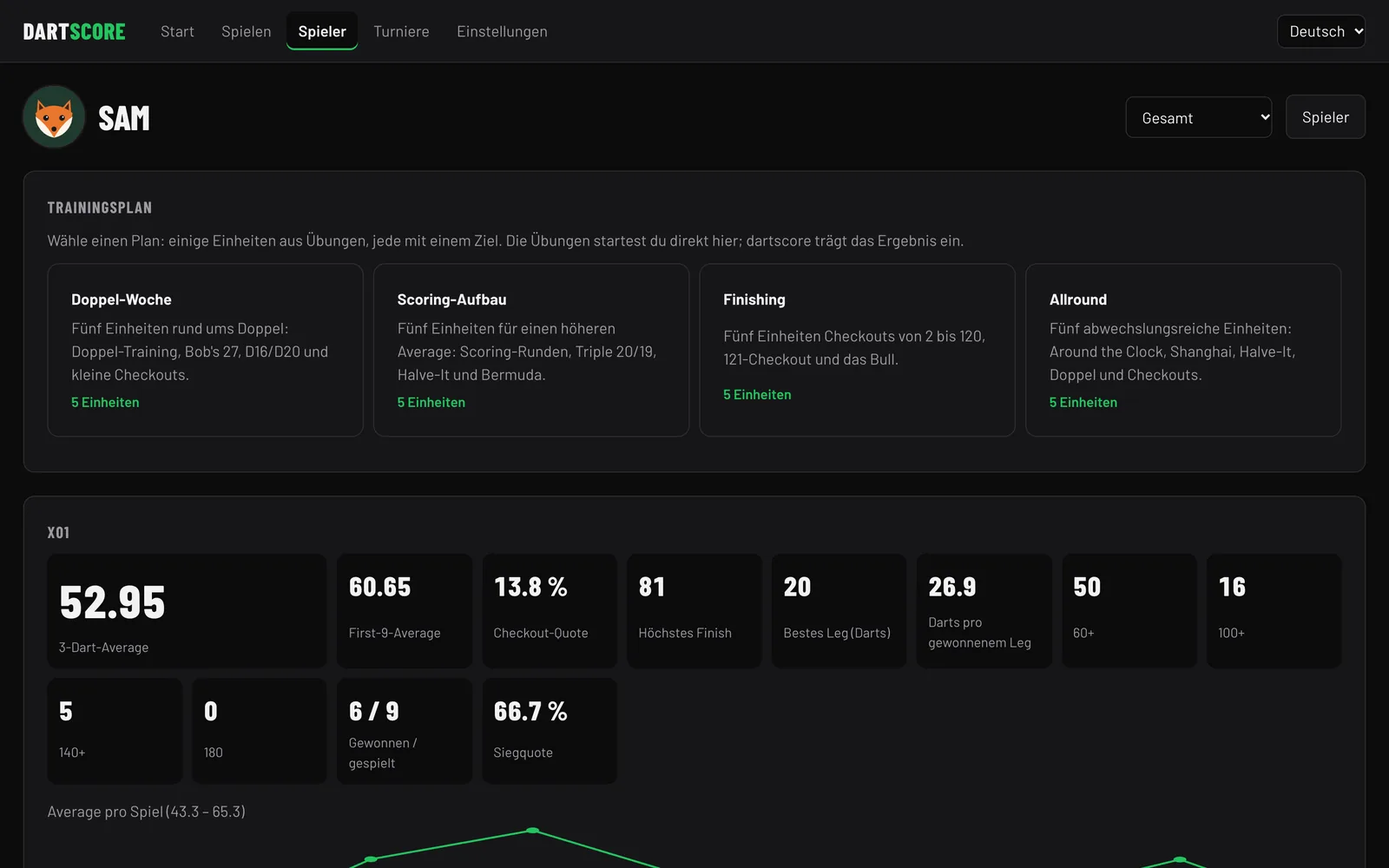
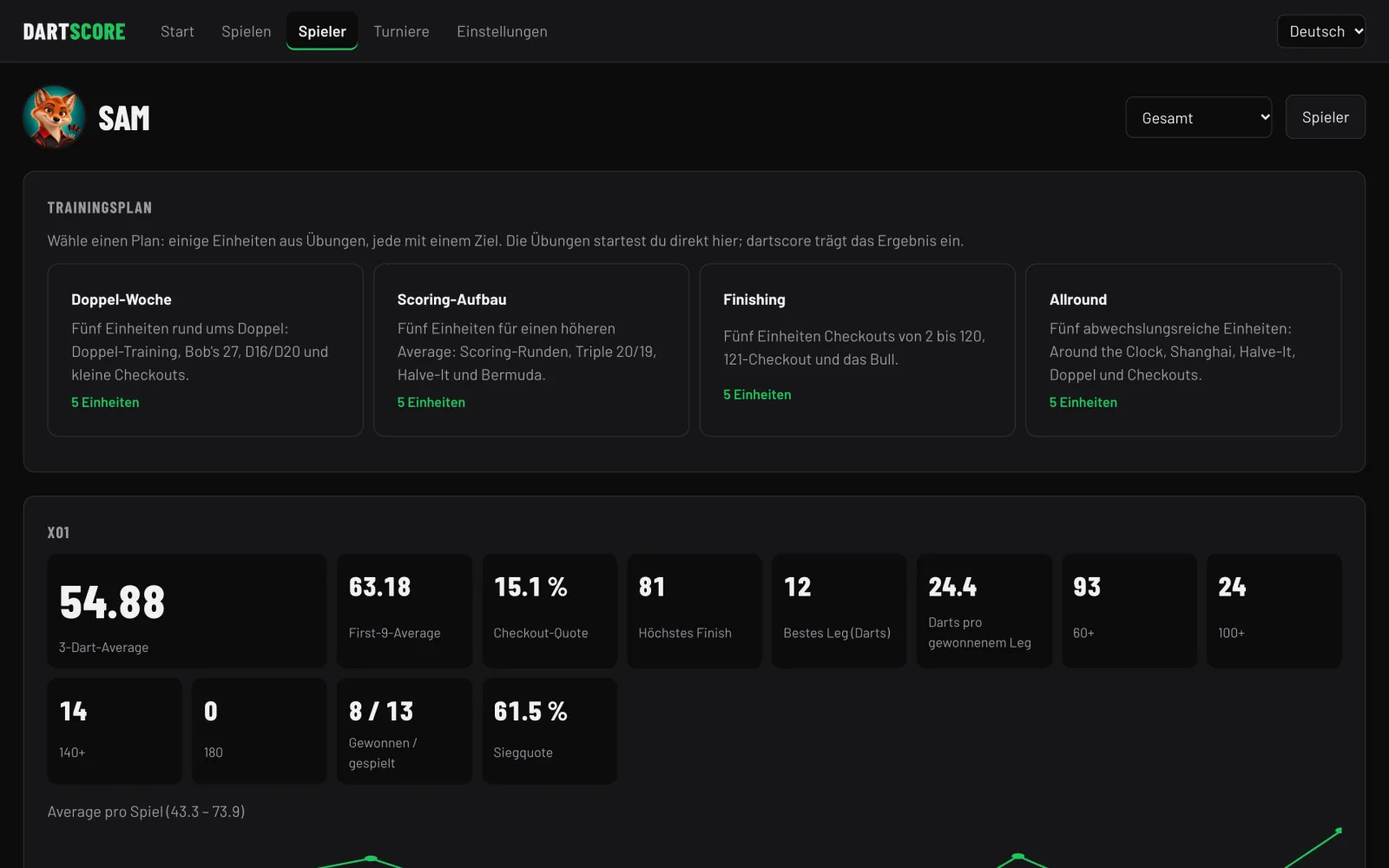
Project page: showtime section, portrait gallery and fresh screenshots
- New "Showtime" section: versus screen, line-up, "up next" intro, bot
  versus and the winner reveal, with EN and DE screenshots.
- Portrait gallery with all 16 cartoon portraits and their robot versions.
- Arcade texts and screenshots for the full-screen monster hunt and
  Voltage; monster stills with a CSS breathing/hover animation replace the
  old frame strips.
- Live game, phone, board input and stats screenshots retaken with the new
  portraits; README highlights mention the showtime screens.

diff --git a/docs/site/index.html b/docs/site/index.html
@@ -171,17 +171,47 @@
   .arcade { background: linear-gradient(180deg, transparent, #0f1a12 30%, #0f1a12 70%, transparent); }
   .arcade-grid { display: grid; grid-template-columns: 1fr 1fr; gap: 20px; margin-top: 48px; }
   .arcade-card { border-radius: var(--radius); overflow: hidden; background: var(--surface); border: 1px solid var(--line); }
-  .arcade-card img { aspect-ratio: 8 / 7; object-fit: cover; object-position: top; width: 100%; }
+  .arcade-card img { aspect-ratio: 16 / 10; object-fit: cover; width: 100%; }
   .arcade-card div { padding: 22px 24px 26px; }
   .arcade-card p { margin: 8px 0 0; color: var(--muted); }
   @media (max-width: 820px) { .arcade-grid { grid-template-columns: 1fr; } }
-  .monsters { display: flex; gap: 10px; margin-top: 26px; }
-  .sprite {
-    width: 72px; height: 72px; background-size: 400% 100%; background-repeat: no-repeat;
-    animation: idle .8s steps(3) infinite alternate;
+  .monsters { display: flex; gap: 14px; margin-top: 26px; align-items: flex-end; }
+  .monsters img {
+    width: min(84px, 20vw); height: auto; transform-origin: 50% 100%;
+    animation: breathe 1.6s ease-in-out infinite alternate;
   }
-  @keyframes idle { from { background-position: 0 0; } to { background-position: 100% 0; } }
-  @media (prefers-reduced-motion: reduce) { .sprite { animation: none; } html { scroll-behavior: auto; } }
+  .monsters img:nth-child(2) { animation: hover 1.9s ease-in-out infinite alternate; }
+  .monsters img:nth-child(3) { animation-delay: -.5s; }
+  .monsters img:nth-child(4) { animation-delay: -1s; }
+  @keyframes breathe { from { transform: scale(1, 1); } to { transform: scale(1.05, .95); } }
+  @keyframes hover { from { transform: translateY(0) rotate(-3deg); } to { transform: translateY(-10px) rotate(3deg); } }
+  @media (prefers-reduced-motion: reduce) { .monsters img { animation: none !important; } html { scroll-behavior: auto; } }
+
+  /* showtime */
+  .show { background: radial-gradient(ellipse 80% 60% at 50% 30%, rgba(250, 204, 21, .07), transparent 70%); }
+  .show .eyebrow { color: #facc15; }
+  .show .ticks li::before { border-color: #facc15; background: radial-gradient(circle, #facc15 0 3px, transparent 3.5px); }
+  .show-hero { margin-top: 48px; }
+  .show-hero .frame { box-shadow: 0 40px 120px -40px rgba(250, 204, 21, .3), 0 20px 60px rgba(0,0,0,.6); }
+  .show-grid { display: grid; grid-template-columns: repeat(3, 1fr); gap: 16px; margin-top: 16px; }
+  .show-card { border-radius: var(--radius); overflow: hidden; background: var(--surface); border: 1px solid var(--line); }
+  .show-card img { aspect-ratio: 16 / 10; object-fit: cover; width: 100%; }
+  .show-card div { padding: 20px 22px 24px; }
+  .show-card p { margin: 8px 0 0; color: var(--muted); font-size: .97rem; line-height: 1.55; }
+  @media (max-width: 900px) { .show-grid { grid-template-columns: 1fr; } }
+  .show .split { margin-top: 96px; }
+
+  /* portraits */
+  .portraits { margin-top: 110px; }
+  .faces { display: grid; grid-template-columns: repeat(8, 1fr); gap: 14px; margin-top: 28px; }
+  .faces img {
+    width: 100%; aspect-ratio: 1; border-radius: 50%; border: 3px solid var(--line);
+    box-shadow: 0 12px 30px rgba(0,0,0,.5); transition: transform .2s, border-color .2s;
+  }
+  .faces img:hover { transform: translateY(-4px) scale(1.06); border-color: var(--accent); }
+  .faces.bots img:hover { border-color: #94a3b8; }
+  .faces-label { margin-top: 34px; font: 700 .85rem/1 var(--display); letter-spacing: .16em; text-transform: uppercase; color: var(--muted); }
+  @media (max-width: 760px) { .faces { grid-template-columns: repeat(4, 1fr); gap: 10px; } }
 
   /* feature grid */
   .grid { display: grid; grid-template-columns: repeat(3, 1fr); gap: 16px; margin-top: 48px; }
@@ -231,6 +261,7 @@
     <ul>
       <li><a href="#how">How it works</a></li>
       <li><a href="#features">Features</a></li>
+      <li><a href="#showtime">Showtime</a></li>
       <li><a href="#modes">Game modes</a></li>
       <li><a href="#arcade">Arcade</a></li>
       <li><a href="#setup">Setup</a></li>
@@ -256,6 +287,7 @@
       <span class="chip">3 cameras</span>
       <span class="chip">YOLO pose model on the CPU</span>
       <span class="chip">20+ games &amp; variants</span>
+      <span class="chip">Versus intros &amp; winner reveal</span>
       <span class="chip">TV · tablet · phone</span>
       <span class="chip">English &amp; German</span>
     </div>
@@ -329,7 +361,7 @@
       <div>
         <div class="eyebrow">Profiles &amp; training</div>
         <h2>For the whole household</h2>
-        <p class="lead">Any number of local profiles plus guests. Photos from the phone camera or a gallery of 16 characters, an optional PIN against accidental edits.</p>
+        <p class="lead">Any number of local profiles plus guests. A photo from the phone camera or one of 16 cartoon portraits, an optional PIN against accidental edits.</p>
         <ul class="ticks">
           <li><b>Training plans</b>: four built-in plans of five sessions, goals per drill, results recorded automatically</li>
           <li><b>Bots</b> with an adjustable average – or a <b>personal bot</b> that throws like you</li>
@@ -338,6 +370,87 @@
         </ul>
       </div>
       <img class="frame" src="img/stats.webp" alt="Player page with training plans and X01 statistics" width="1600" height="1000" loading="lazy">
+    </div>
+
+    <div class="portraits reveal">
+      <div class="eyebrow">Portraits</div>
+      <h2>Pick your character</h2>
+      <p class="lead">Sixteen 3D cartoon portraits in one style – darts jersey, three darts in hand, a background in the player's colour. Bots wear robot versions of them and never one that a player in the same game already has.</p>
+      <div class="faces" role="img" aria-label="The 16 gallery portraits">
+        <img src="img/avatars/fox.webp" alt="" width="176" height="176" loading="lazy">
+        <img src="img/avatars/tiger.webp" alt="" width="176" height="176" loading="lazy">
+        <img src="img/avatars/owl.webp" alt="" width="176" height="176" loading="lazy">
+        <img src="img/avatars/penguin.webp" alt="" width="176" height="176" loading="lazy">
+        <img src="img/avatars/lion.webp" alt="" width="176" height="176" loading="lazy">
+        <img src="img/avatars/bear.webp" alt="" width="176" height="176" loading="lazy">
+        <img src="img/avatars/panda.webp" alt="" width="176" height="176" loading="lazy">
+        <img src="img/avatars/cat.webp" alt="" width="176" height="176" loading="lazy">
+        <img src="img/avatars/dog.webp" alt="" width="176" height="176" loading="lazy">
+        <img src="img/avatars/frog.webp" alt="" width="176" height="176" loading="lazy">
+        <img src="img/avatars/monkey.webp" alt="" width="176" height="176" loading="lazy">
+        <img src="img/avatars/unicorn.webp" alt="" width="176" height="176" loading="lazy">
+        <img src="img/avatars/pirate.webp" alt="" width="176" height="176" loading="lazy">
+        <img src="img/avatars/ghost.webp" alt="" width="176" height="176" loading="lazy">
+        <img src="img/avatars/alien.webp" alt="" width="176" height="176" loading="lazy">
+        <img src="img/avatars/robot.webp" alt="" width="176" height="176" loading="lazy">
+      </div>
+      <div class="faces-label">… and their bot twins</div>
+      <div class="faces bots" role="img" aria-label="Robot versions of the portraits worn by bots">
+        <img src="img/avatars/bots/fox.webp" alt="" width="176" height="176" loading="lazy">
+        <img src="img/avatars/bots/tiger.webp" alt="" width="176" height="176" loading="lazy">
+        <img src="img/avatars/bots/owl.webp" alt="" width="176" height="176" loading="lazy">
+        <img src="img/avatars/bots/penguin.webp" alt="" width="176" height="176" loading="lazy">
+        <img src="img/avatars/bots/lion.webp" alt="" width="176" height="176" loading="lazy">
+        <img src="img/avatars/bots/bear.webp" alt="" width="176" height="176" loading="lazy">
+        <img src="img/avatars/bots/panda.webp" alt="" width="176" height="176" loading="lazy">
+        <img src="img/avatars/bots/cat.webp" alt="" width="176" height="176" loading="lazy">
+        <img src="img/avatars/bots/dog.webp" alt="" width="176" height="176" loading="lazy">
+        <img src="img/avatars/bots/frog.webp" alt="" width="176" height="176" loading="lazy">
+        <img src="img/avatars/bots/monkey.webp" alt="" width="176" height="176" loading="lazy">
+        <img src="img/avatars/bots/unicorn.webp" alt="" width="176" height="176" loading="lazy">
+        <img src="img/avatars/bots/pirate.webp" alt="" width="176" height="176" loading="lazy">
+        <img src="img/avatars/bots/ghost.webp" alt="" width="176" height="176" loading="lazy">
+        <img src="img/avatars/bots/alien.webp" alt="" width="176" height="176" loading="lazy">
+        <img src="img/avatars/bots/robot.webp" alt="" width="176" height="176" loading="lazy">
+      </div>
+    </div>
+  </div>
+</section>
+
+<section id="showtime" class="show">
+  <div class="wrap">
+    <div class="eyebrow">Showtime</div>
+    <h2>Every game gets a stage</h2>
+    <p class="lead">Like a TV broadcast: players walk on before the first dart, the next thrower is announced and the winner gets a moment of their own. Every screen can be skipped with a tap and switched off in the settings.</p>
+    <div class="show-hero reveal">
+      <img class="frame" src="img/versus.webp" alt="Versus screen: two players face each other in their colours with a slamming VS" width="1600" height="1000" loading="lazy">
+    </div>
+    <div class="show-grid">
+      <div class="show-card reveal">
+        <img src="img/lineup.webp" alt="Line-up: player 2 of 4 is introduced on a coloured band" width="1600" height="1000" loading="lazy">
+        <div><h3>Line-up</h3><p>With three or more entries the players are introduced one after another in throwing order – teams with their members.</p></div>
+      </div>
+      <div class="show-card reveal">
+        <img src="img/turn-intro.webp" alt="Up next: the next player with the remaining score over the blurred game" width="1600" height="1000" loading="lazy">
+        <div><h3>Up next</h3><p>On every turn change the next thrower zooms in with picture and remaining score, so a full room always knows whose turn it is.</p></div>
+      </div>
+      <div class="show-card reveal">
+        <img src="img/versus-bot.webp" alt="Versus screen against a bot wearing a robot frog portrait" width="1600" height="1000" loading="lazy">
+        <div><h3>Boss fight</h3><p>Playing a bot? It shows up in its robot portrait with its average – two entries face each other like a boss fight.</p></div>
+      </div>
+    </div>
+    <div class="split reveal">
+      <div>
+        <div class="eyebrow">Winner reveal</div>
+        <h2>The last dart deserves a moment</h2>
+        <p class="lead">When a game ends, the winner appears alone in full screen before the statistics show up.</p>
+        <ul class="ticks">
+          <li><b>Golden ring</b> around the profile picture, turning rays and a trophy</li>
+          <li><b>Final score</b> – 3 : 0 in legs, or legs and sets with more players</li>
+          <li><b>Confetti</b> on top, about four seconds, then straight to the stats</li>
+        </ul>
+      </div>
+      <img class="frame" src="img/winner.webp" alt="Winner reveal: the winner's portrait with a golden ring, rays, trophy and the final score 3 : 0" width="1600" height="1000" loading="lazy">
     </div>
   </div>
 </section>
@@ -371,7 +484,7 @@
       <div class="mode reveal">
         <div class="tag">Arcade</div><h3>Animated</h3>
         <ul>
-          <li>Monster hunt on the real board positions</li><li>X01 Voltage theme</li><li>Round intros &amp; popups</li><li>Particle effects (switchable, respects reduced motion)</li>
+          <li>Monster hunt on the real board positions</li><li>X01 Voltage theme, full screen</li><li>Round intros &amp; popups</li><li>Particle effects (switchable, respects reduced motion)</li>
         </ul>
       </div>
     </div>
@@ -384,19 +497,19 @@
     <h2>The board is the game world</h2>
     <p class="lead">The cameras know exactly where each dart landed, so games can use the real position – not only the segment.</p>
     <div class="monsters" aria-hidden="true">
-      <div class="sprite" style="background-image:url(img/blob-idle.webp)"></div>
-      <div class="sprite" style="background-image:url(img/bat-idle.webp); animation-delay:-.2s"></div>
-      <div class="sprite" style="background-image:url(img/imp-idle.webp); animation-delay:-.4s"></div>
-      <div class="sprite" style="background-image:url(img/king-idle.webp); animation-delay:-.6s"></div>
+      <img src="img/monsters/blob.webp" alt="" width="192" height="192">
+      <img src="img/monsters/bat.webp" alt="" width="192" height="192">
+      <img src="img/monsters/imp.webp" alt="" width="192" height="192">
+      <img src="img/monsters/king.webp" alt="" width="192" height="192">
     </div>
     <div class="arcade-grid">
       <div class="arcade-card reveal">
-        <img src="img/monsters.webp" alt="Monster hunt: monsters sitting on a painted meadow board" width="1600" height="1404" loading="lazy">
-        <div><h3>Monster hunt</h3><p>Monsters sit on spots of the board. Hit close enough and they are caught; missed ones grow – easier to hit, but worth fewer points. Some wander every visit, the last round counts double.</p></div>
+        <img src="img/monsters.webp" alt="Monster hunt: a monster on a glowing graveyard board, darts shown as cartridges" width="1600" height="1000" loading="lazy">
+        <div><h3>Monster hunt</h3><p>One monster at a time stands on the board of a night graveyard. A dart near its middle is a headshot, a graze costs it a life, a miss makes it grow. Monsters breathe, hop and flap as GPU puppets; bullet holes, sparks and screen shake on every hit.</p></div>
       </div>
       <div class="arcade-card reveal">
-        <img src="img/voltage.webp" alt="X01 in the Voltage theme with battery gauges and a neon board" width="1600" height="1383" loading="lazy">
-        <div><h3>X01 Voltage</h3><p>Regular X01 rules, arcade looks: remaining scores drain like batteries, darts appear on a neon board at their real position, big scores strike lightning.</p></div>
+        <img src="img/voltage.webp" alt="X01 in the Voltage theme: battery gauges, a neon board and a city skyline" width="1600" height="1000" loading="lazy">
+        <div><h3>X01 Voltage</h3><p>Regular X01 rules in full screen: remaining scores drain like batteries, darts appear on a neon board at their real position, every dart strikes lightning and a bust shorts the circuit. Corrections open in a popup.</p></div>
       </div>
     </div>
   </div>
@@ -537,7 +650,6 @@
     '<b>Trends</b> for every training mode, form curve, best and weakest games, achievements': '<b>Verläufe</b> für jeden Trainingsmodus, Formkurve, beste und schwächste Spiele, Achievements',
     '<b>Export</b> to CSV/JSON, daily database backups with restore': '<b>Export</b> als CSV/JSON, tägliche Datenbank-Backups mit Wiederherstellung',
     'Profiles &amp; training': 'Profile &amp; Training', 'For the whole household': 'Für den ganzen Haushalt',
-    'Any number of local profiles plus guests. Photos from the phone camera or a gallery of 16 characters, an optional PIN against accidental edits.': 'Beliebig viele lokale Profile plus Gäste. Fotos von der Handykamera oder eine Galerie mit 16 Figuren, optional eine PIN gegen versehentliche Änderungen.',
     '<b>Training plans</b>: four built-in plans of five sessions, goals per drill, results recorded automatically': '<b>Trainingspläne</b>: vier mitgelieferte Pläne mit je fünf Einheiten, Ziele pro Übung, Ergebnisse werden automatisch erfasst',
     '<b>Bots</b> with an adjustable average – or a <b>personal bot</b> that throws like you': '<b>Bots</b> mit einstellbarem Average – oder ein <b>persönlicher Bot</b>, der wirft wie du',
     '<b>Handicap</b>: own start score per player so kids can keep up': '<b>Handicap</b>: eigener Startwert pro Spieler, damit Kinder mithalten können',
@@ -553,8 +665,6 @@
     'The board is the game world': 'Die Scheibe ist die Spielwelt',
     'The cameras know exactly where each dart landed, so games can use the real position – not only the segment.': 'Die Kameras wissen genau, wo jeder Dart steckt – Spiele können also die echte Position nutzen, nicht nur das Segment.',
     'Monster hunt': 'Monster-Jagd',
-    'Monsters sit on spots of the board. Hit close enough and they are caught; missed ones grow – easier to hit, but worth fewer points. Some wander every visit, the last round counts double.': 'Monster sitzen auf Stellen der Scheibe. Triffst du nah genug, ist es gefangen; verfehlte Monster wachsen – leichter zu treffen, aber weniger Punkte wert. Manche wandern jede Aufnahme weiter, die letzte Runde zählt doppelt.',
-    'Regular X01 rules, arcade looks: remaining scores drain like batteries, darts appear on a neon board at their real position, big scores strike lightning.': 'Normale X01-Regeln im Arcade-Look: Der Rest leert sich wie eine Batterie, Darts erscheinen an ihrer echten Position auf einer Neon-Scheibe, hohe Aufnahmen lassen Blitze zucken.',
     'Under the hood': 'Unter der Haube', 'Made for a real living room': 'Gemacht fürs echte Wohnzimmer',
     'Guided calibration': 'Geführte Kalibrierung', 'Click reference points per camera, get a board overlay to check it, lens calibration with a printable chessboard. Bumped cameras are re-aligned automatically.': 'Referenzpunkte je Kamera anklicken, Board-Overlay zur Kontrolle, Linsenkalibrierung mit druckbarem Schachbrett. Angestoßene Kameras werden automatisch nachjustiert.',
     'Referee': 'Schiedsrichter', 'Low-confidence darts are re-checked before scoring; any recorded dart can be re-evaluated later. Confirmed darts become training data.': 'Unsichere Darts werden vor der Wertung nachgeprüft; jeder aufgezeichnete Dart lässt sich später neu auswerten. Bestätigte Darts werden zu Trainingsdaten.',
@@ -578,23 +688,48 @@
     'Details are in the <a href="https://github.com/abartholomaei/dartscore#readme">README</a> and the <a href="https://github.com/abartholomaei/dartscore/blob/main/docs/hardware-setup.md">hardware notes</a>. No cameras yet? Set <code>source = "synthetic"</code> and play with manual input.':
       'Details stehen im <a href="https://github.com/abartholomaei/dartscore#readme">README</a> und in den <a href="https://github.com/abartholomaei/dartscore/blob/main/docs/hardware-setup.md">Hardware-Notizen</a> (englisch). Noch keine Kameras? Setze <code>source = "synthetic"</code> und spiele mit manueller Eingabe.',
     'MIT licensed · Screenshots show demo data · <a href="https://github.com/abartholomaei/dartscore">GitHub</a>': 'MIT-Lizenz · Screenshots zeigen Demodaten · <a href="https://github.com/abartholomaei/dartscore">GitHub</a>',
+    'Showtime': 'Showtime', 'Versus intros &amp; winner reveal': 'Versus-Intros &amp; Siegerehrung',
+    'Any number of local profiles plus guests. A photo from the phone camera or one of 16 cartoon portraits, an optional PIN against accidental edits.': 'Beliebig viele lokale Profile plus Gäste. Ein Foto von der Handykamera oder eines von 16 Cartoon-Porträts, optional eine PIN gegen versehentliche Änderungen.',
+    'Portraits': 'Porträts', 'Pick your character': 'Wähle deine Figur',
+    "Sixteen 3D cartoon portraits in one style – darts jersey, three darts in hand, a background in the player's colour. Bots wear robot versions of them and never one that a player in the same game already has.": 'Sechzehn 3D-Cartoon-Porträts in einem Stil – Dart-Trikot, drei Darts in der Hand, Hintergrund in der Spielerfarbe. Bots tragen Roboter-Versionen davon, aber nie die eines Spielers aus demselben Spiel.',
+    '… and their bot twins': '… und ihre Bot-Zwillinge',
+    'Every game gets a stage': 'Jedes Spiel bekommt eine Bühne',
+    'Like a TV broadcast: players walk on before the first dart, the next thrower is announced and the winner gets a moment of their own. Every screen can be skipped with a tap and switched off in the settings.': 'Wie im Fernsehen: Vor dem ersten Dart laufen die Spieler ein, wer als Nächstes wirft, wird angekündigt, und der Sieger bekommt seinen eigenen Moment. Jede Einblendung lässt sich mit einem Tap überspringen und in den Einstellungen abschalten.',
+    'Line-up': 'Aufstellung', 'With three or more entries the players are introduced one after another in throwing order – teams with their members.': 'Ab drei Teilnehmern werden die Spieler nacheinander in Wurfreihenfolge vorgestellt – Teams mit ihren Mitgliedern.',
+    'Up next': 'Am Zug', 'On every turn change the next thrower zooms in with picture and remaining score, so a full room always knows whose turn it is.': 'Bei jedem Wechsel zoomt der nächste Werfer mit Bild und Restpunkten ins Bild – so weiß auch ein volles Wohnzimmer immer, wer dran ist.',
+    'Boss fight': 'Bosskampf', 'Playing a bot? It shows up in its robot portrait with its average – two entries face each other like a boss fight.': 'Gegen einen Bot? Er erscheint in seinem Roboter-Porträt mit seinem Average – beide stehen sich gegenüber wie in einem Bosskampf.',
+    'Winner reveal': 'Siegerehrung', 'The last dart deserves a moment': 'Der letzte Dart verdient einen Moment',
+    'When a game ends, the winner appears alone in full screen before the statistics show up.': 'Ist ein Spiel vorbei, erscheint der Sieger allein im Vollbild, bevor die Statistik kommt.',
+    '<b>Golden ring</b> around the profile picture, turning rays and a trophy': '<b>Goldener Ring</b> um das Profilbild, drehende Strahlen und ein Pokal',
+    '<b>Final score</b> – 3 : 0 in legs, or legs and sets with more players': '<b>Endstand</b> – 3 : 0 in Legs, bei mehr Spielern Legs und Sets',
+    '<b>Confetti</b> on top, about four seconds, then straight to the stats': '<b>Konfetti</b> obendrauf, rund vier Sekunden, dann direkt zur Statistik',
+    'X01 Voltage theme, full screen': 'X01 im Voltage-Design, Vollbild',
+    'One monster at a time stands on the board of a night graveyard. A dart near its middle is a headshot, a graze costs it a life, a miss makes it grow. Monsters breathe, hop and flap as GPU puppets; bullet holes, sparks and screen shake on every hit.': 'Auf der Scheibe eines nächtlichen Friedhofs steht immer genau ein Monster. Ein Dart nah an der Mitte ist ein Kopfschuss, ein Streifschuss kostet ein Leben, ein Fehlwurf lässt es wachsen. Die Monster atmen, hüpfen und flattern als GPU-Puppen; Einschusslöcher, Funken und Wackeln bei jedem Treffer.',
+    'Regular X01 rules in full screen: remaining scores drain like batteries, darts appear on a neon board at their real position, every dart strikes lightning and a bust shorts the circuit. Corrections open in a popup.': 'Normale X01-Regeln im Vollbild: Der Rest leert sich wie eine Batterie, Darts erscheinen an ihrer echten Position auf einer Neon-Scheibe, jeder Dart lässt einen Blitz einschlagen, ein Bust sorgt für Kurzschluss. Korrekturen öffnen sich in einem Popup.',
     // image descriptions
+    'Versus screen: two players face each other in their colours with a slamming VS': 'Versus-Bildschirm: Zwei Spieler stehen sich in ihren Farben gegenüber, dazwischen ein wuchtiges VS',
+    'Line-up: player 2 of 4 is introduced on a coloured band': 'Aufstellung: Spieler 2 von 4 wird auf einem farbigen Band vorgestellt',
+    'Up next: the next player with the remaining score over the blurred game': 'Am Zug: der nächste Spieler mit Restpunkten über dem unscharfen Spiel',
+    'Versus screen against a bot wearing a robot frog portrait': 'Versus-Bildschirm gegen einen Bot mit Roboter-Frosch-Porträt',
+    "Winner reveal: the winner's portrait with a golden ring, rays, trophy and the final score 3 : 0": 'Siegerehrung: Porträt des Siegers mit goldenem Ring, Strahlen, Pokal und Endstand 3 : 0',
+    'Monster hunt: a monster on a glowing graveyard board, darts shown as cartridges': 'Monster-Jagd: ein Monster auf einer leuchtenden Friedhofs-Scheibe, die Darts als Patronen',
+    'X01 in the Voltage theme: battery gauges, a neon board and a city skyline': 'X01 im Voltage-Design: Batterieanzeigen, Neon-Scheibe und Skyline',
+    'The 16 gallery portraits': 'Die 16 Galerie-Porträts', 'Robot versions of the portraits worn by bots': 'Roboter-Versionen der Porträts für Bots',
     'Live X01 match: large remaining scores, checkout suggestion and keypad for corrections': 'Laufendes X01-Match: große Restpunkte, Checkout-Vorschlag und Zahlenfeld für Korrekturen',
     'The same match on a phone': 'Dasselbe Match auf dem Handy',
     'Live game with the board input for corrections': 'Laufendes Spiel mit der Scheiben-Eingabe für Korrekturen',
     'Hit heatmap of a player with grouping values': 'Treffer-Heatmap eines Spielers mit Streuungswerten',
     'Player page with training plans and X01 statistics': 'Spielerseite mit Trainingsplänen und X01-Statistik',
-    'Monster hunt: monsters sitting on a painted meadow board': 'Monster-Jagd: Monster auf einer gemalten Wiesen-Scheibe',
-    'X01 in the Voltage theme with battery gauges and a neon board': 'X01 im Voltage-Design mit Batterieanzeigen und Neon-Scheibe',
   };
-  const TEXT = 'title, nav ul a, .eyebrow, h1, h2, h3, .lead, .btn, .chip, .band p, .step p, .ticks li, .mode .tag, .mode li, .arcade-card p, .card p, th, td, footer span, pre .c';
+  const TEXT = 'title, nav ul a, .eyebrow, h1, h2, h3, .lead, .btn, .chip, .band p, .step p, .ticks li, .mode .tag, .mode li, .arcade-card p, .show-card p, .faces-label, .card p, th, td, footer span, pre .c';
   const norm = (html) => html.replace(/\s+/g, ' ').trim();
   const texts = [...document.querySelectorAll(TEXT)].map((el) => [el, el.innerHTML]);
   const alts = [...document.querySelectorAll('img[alt]')].filter((i) => i.alt).map((img) => [img, img.alt, img.getAttribute('src')]);
+  const labels = [...document.querySelectorAll('.faces[aria-label]')].map((el) => [el, el.getAttribute('aria-label')]);
   const meta = document.querySelector('meta[name="description"]');
   const metaEn = meta.content;
   // screenshots of the German UI live in img/de with the same file names
-  const localized = new Set(['play', 'play-phone', 'play-board', 'heatmap', 'stats', 'monsters', 'voltage']);
+  const localized = new Set(['play', 'play-phone', 'play-board', 'heatmap', 'stats', 'monsters', 'voltage', 'lineup', 'turn-intro', 'versus-bot', 'winner']);
 
   function setLang(lang) {
     const de = lang === 'de';
@@ -608,6 +743,7 @@
       const name = src.match(/^img\/([\w-]+)\.webp$/)?.[1];
       if (name && localized.has(name)) img.src = de ? `img/de/${name}.webp` : src;
     }
+    for (const [el, en] of labels) el.setAttribute('aria-label', (de && DE[en]) || en);
     meta.content = (de && DE[metaEn]) || metaEn;
     for (const b of document.querySelectorAll('.lang button')) b.setAttribute('aria-pressed', String(b.dataset.lang === lang));
   }

diff --git a/README.md b/README.md
@@ -32,12 +32,17 @@
 | 🔄 **Hands-free turns** | Pulling the darts ends the turn; corrections take two taps on the keypad or the board, bounce-outs included. |
 | 🎮 **20+ games and variants** | X01 (in/out rules, legs & sets, handicap, teams), Cricket (standard, cut-throat, no-score, random, hidden), training modes from Around the Clock to 121 checkout, Killer, Halve-It, Gotcha, local tournaments, bots. |
 | 📊 **Statistics** | Averages, checkout rate, ton counts, MPR, heatmap, grouping, aim deviation, trends for every mode, achievements; CSV/JSON export and daily backups. |
-| 🧑🤝🧑 **Local profiles** | Photos or a gallery avatar, favourite double, optional PIN, training plans, a personal bot that throws like you. |
-| 👾 **Arcade** | Monster hunt on the real dart positions and the X01 Voltage theme, with animations and particle effects. |
+| 🧑🤝🧑 **Local profiles** | A photo or one of 16 cartoon portraits (bots wear robot versions), favourite double, optional PIN, training plans, a personal bot that throws like you. |
+| 🏆 **Showtime** | Versus screen before the first dart, line-up and "up next" intros for bigger rounds, a full-screen winner reveal at the end. |
+| 👾 **Arcade** | Full-screen monster hunt on the real dart positions and the X01 Voltage theme, with animations and particle effects. |
 | 📺 **Any screen** | Responsive, installable web app; readable from the oche on a TV, QR code to open it on a phone. |
 | 🔒 **Local first** | FastAPI + SQLite on a small PC (reference: 2012 Mac mini, CPU inference); works without internet. |
 
 <table>
+  <tr>
+    <td width="50%"><img src="docs/site/img/versus.webp" alt="Versus screen before the first dart"></td>
+    <td width="50%"><img src="docs/site/img/winner.webp" alt="Winner reveal at the end of a game"></td>
+  </tr>
   <tr>
     <td width="50%"><img src="docs/site/img/heatmap.webp" alt="Hit heatmap and grouping"></td>
     <td width="50%"><img src="docs/site/img/monsters.webp" alt="Monster hunt arcade game"></td>
